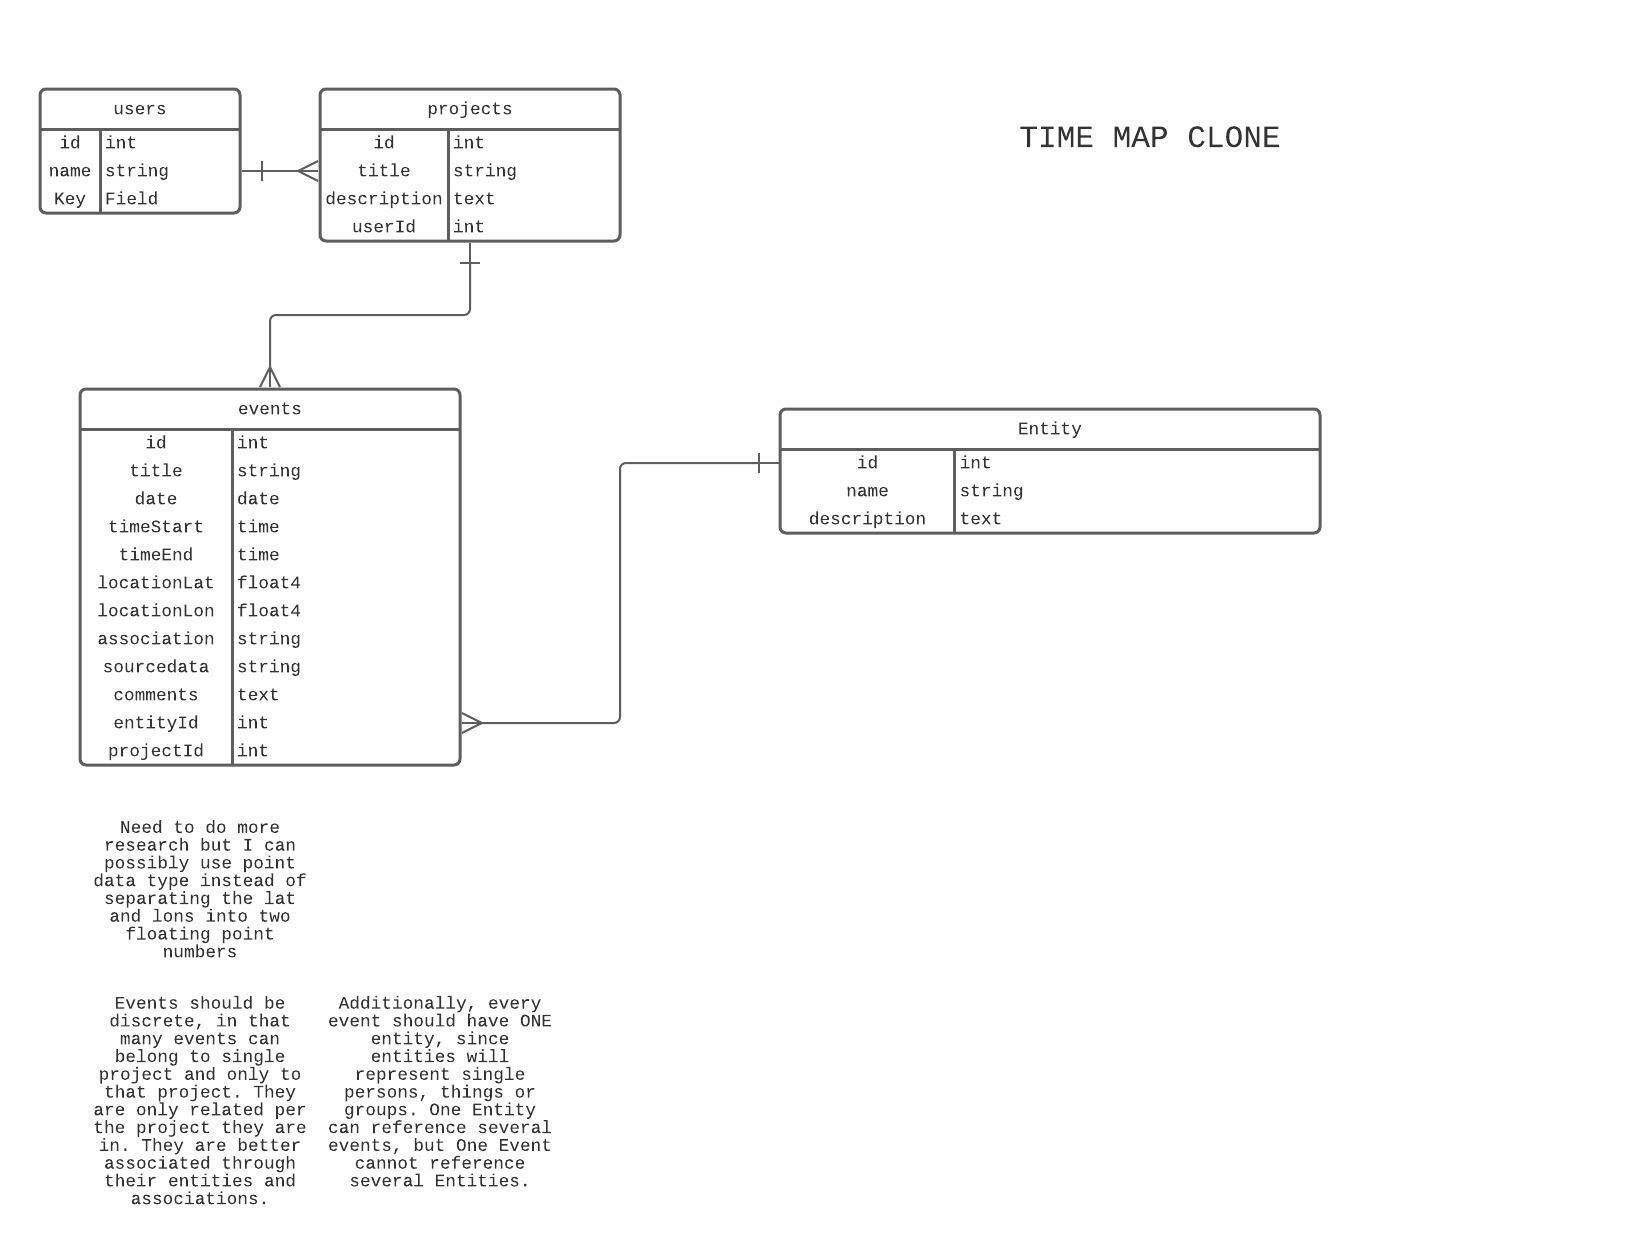
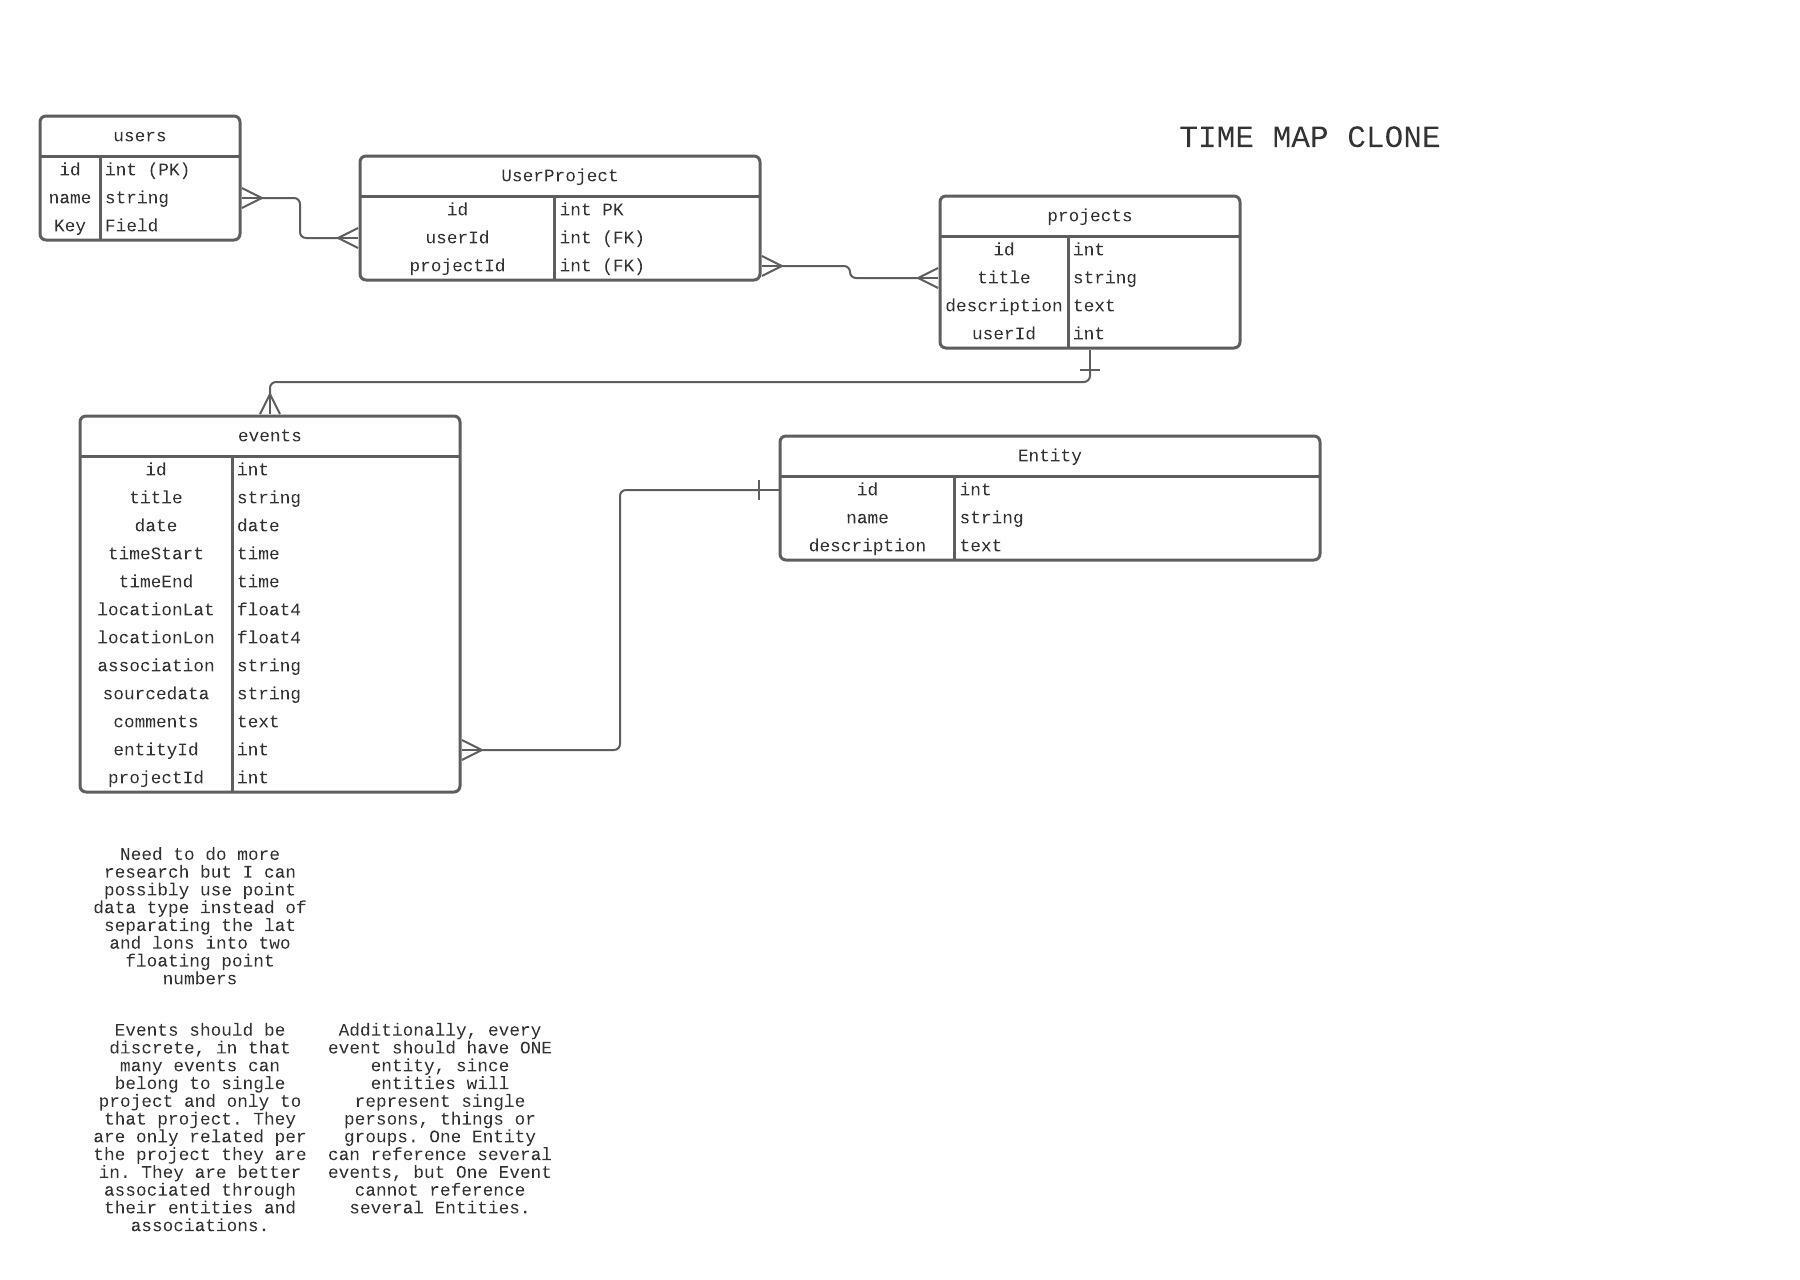
realized that users and projects is going to be N-M relationships. changed chart accordingly.

diff --git a/README.md b/README.md
@@ -3,11 +3,16 @@ An implementation of the the timemap software developed by FA but in the PEN sta
 
 
 ## Tech Stack
-- Postgres
+- Postgres 
 - Express.js
 - Node.js
 - Mapbox API
-- 
+- Axios
+- Sequelize
+- react-svg-timeline (would help mitigate the pains of doing this in CSS)
+- d3js
+
+
 
 
 
@@ -63,11 +68,16 @@ I would also use the APIS ability to dispaly information
 - [ ]  I would like some rudimentary time-related slider / timeline functionality.
 - [ ]  Ideally, I would like for the user to be able to click on the screen and get lat-lon data for data entry. This should be put into the form.
 
-"Project Routes":
-- Main Page Should be an Index of All User Projects
-- 
+## STRETCH GOALS
+- Possible translation of relational data into graph schema to render a force directed graph into canvas (to show the node to line relationship between events and entities? No fancy stuff, just want to see if it is possible. Will not require external API call.
+
+
+
+
 
 ## OBSTACLES
+- Unforseen errors in the data schema. Might I actually need a many to many relationship, have I built the linking table to achieve this?
+
 
 
 
